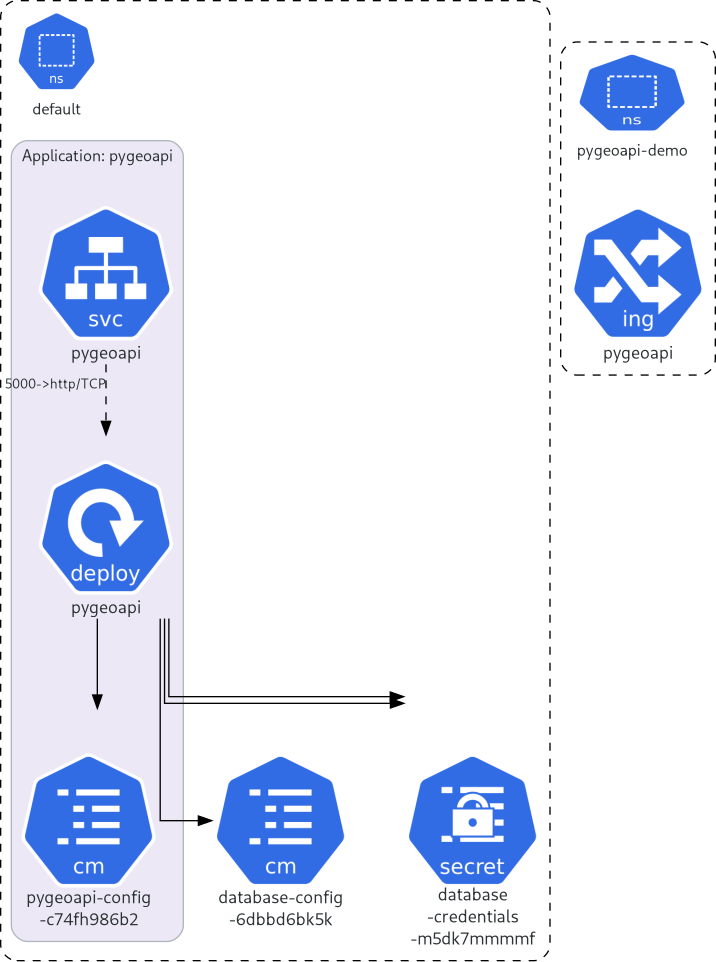
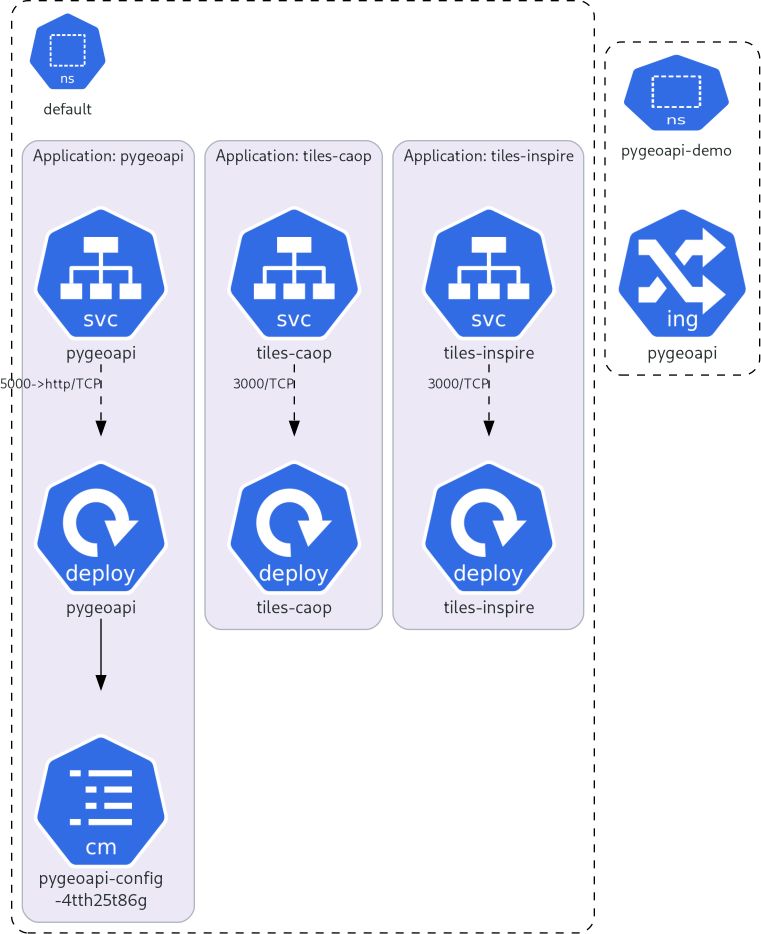
- updated README

diff --git a/README.md b/README.md
@@ -1,9 +1,12 @@
-# Kubernetes deployment of pygeoapi
+# Kubernetes deployment of OGC API DGT
+
+This projects migrates the [OGCAPI](https://github.com/dgterritorio/OGCAPI) suite of services, implemented with docker compose, towards a kubernetes based architecture.
 
 This directory contains a Kubernetes deployment of:
 
-* A [pygeoapi](https://pygeoapi.io/) instance, configured to show the some collections 
-  from [DGT](https://www.dgterritorio.gov.pt/?language=en), currently OGC API - Maps. 
+* A [pygeoapi](https://pygeoapi.io/) instance, configured to show some - and eventually, all - collections 
+  from [OGC API DGT](https://github.com/dgterritorio/OGCAPI). 
+* Tiles servers for the CAOP and cadastro collections (tiles-caop, tiles-inspire). The servers use [martin](https://github.com/maplibre/martin) a blazing fast and lightweight PostGIS tile server.
 
 The Kubernetes manifests needed to run this server are generated with
 [Kustomize](https://kustomize.io/). They build upon [a common base definition](./base/).
@@ -14,9 +17,10 @@ The Kubernetes manifests needed to run this server are generated with
 
 To deploy and run these samples you will need the following tools:
 * [Kustomize](https://kustomize.io/),
-* The [kubectl](https://kubernetes.io/docs/tasks/tools/#kubectl) command-line tool, and
-* Flannel
-* Ingress
+* The [kubectl](https://kubernetes.io/docs/tasks/tools/#kubectl) command-line tool,
+* [Flannel](https://github.com/flannel-io/flannel), a container networking interface (CNI) plugin,
+* [Ingress](https://kubernetes.io/docs/concepts/services-networking/ingress/), a resource that manages external access to services within the cluster,
+* [MetalLB](https://metallb.io/), a load balancer.
 
 ## Deplying to a local cluster
 
@@ -44,7 +48,6 @@ view its state:
         srvquaintergeo1   Ready    control-plane   6d19h   v1.33.3
         srvquaintergeo2   Ready    <none>          6d19h   v1.33.3
         srvquaintergeo3   Ready    <none>          6d19h   v1.33.3
-
 
 ## Deploy pygeoapi
 
@@ -135,6 +138,8 @@ Apply manifest (setting up the range of reserved IPs):
 
         $ kubectl apply -f base/metallb-config.yaml
 
+In this case, the set of reserved IPs is 192.168.10.140-192.168.10.150.
+
 Check that ingress is running, this time with an external IP:
 
         $ kubectl get service -n ingress-nginx
@@ -143,6 +148,19 @@ Check that ingress is running, this time with an external IP:
         ingress-nginx-controller-admission   ClusterIP      10.98.112.13    <none>           443/TCP                      2d19h
 
 Get a rule on the router, to redirect traffic to that address to the Internet.
+
+## Redeploying pygeoapi
+
+Redeploying pygeoapi and its supporting services, comes down to reapplying the manifest:
+
+    $ kustomize build . | kubectl apply -f -
+
+If you also need to restart the deployment:
+
+    $ kubectl -n pygeoapi-demo rollout restart deployment pygeoapi
+    deployment.apps/pygeoapi restarted
+
+Kubernetes takes care of reapplying the configuration with minimum downtime.
 
 ## Troubleshooting
 
@@ -178,17 +196,9 @@ Recreate Flannel:
     configmap/kube-flannel-cfg created
     daemonset.apps/kube-flannel-ds created
 
-
 ## Next Steps
 
-- Ask IT to open port 443 of the server
-- For now, maybe create a test instance on AWS
-- Activate SSL configuration on ingress (see [SSL](#SSL) for generating the keys)
-- ** Enable external IP with traffic on port 443 ( use MetalLB)**
 - Install postgreSQL database on a separate server: https://github.com/byteroad/postgres-dgt
-- Update pygeoapi to publish feature collections from remote PostgreSQL database
-- Add tile services to the composition
-- Update pygeoapi to publish tile collections from the tile services
 - Port the rest of the pygeoapi configuration
 
 ## SSL
